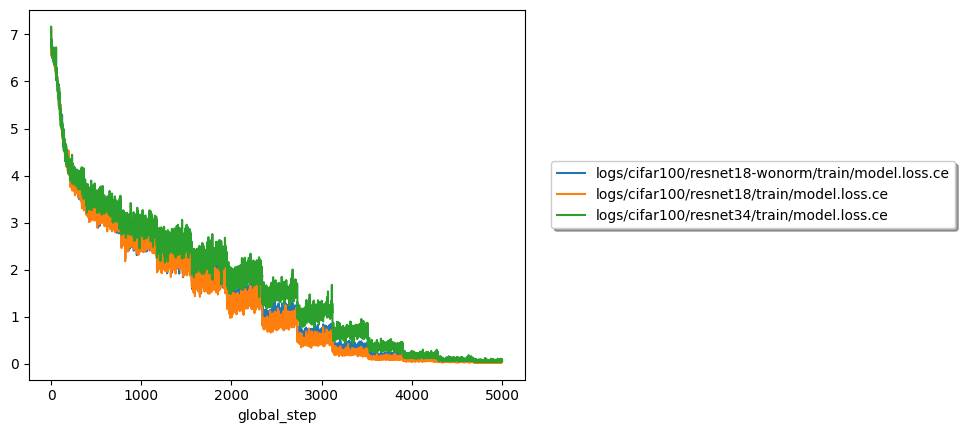
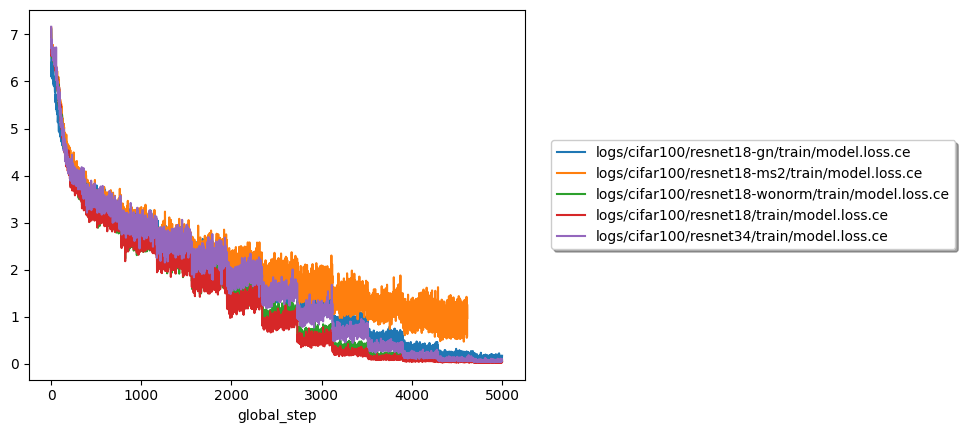
Add filter, update results

Changed region(s): [[0.0311, 0.0901, 0.5285, 0.8406], [0.5596, 0.3303, 0.9948, 0.6005]]

diff --git a/src/plot.py b/src/plot.py
@@ -75,10 +75,16 @@ def main():
     parser.add_argument("--filename", default="log.txt")
     parser.add_argument("--max-x", default=None)
     parser.add_argument("--group-level", default=1)
+    parser.add_argument("--filter", default=None)
     args = parser.parse_args()
 
     paths = args.log_dir.rglob(f"**/{args.filename}")
+
+    if args.filter:
+        paths = filter(lambda p: re.match(".*" + args.filter + ".*", str(p)), paths)
+
     plot(paths, args)
+
     plt.savefig(args.output, bbox_inches="tight")
 
 

diff --git a/README.md b/README.md
@@ -34,4 +34,4 @@ bash ./scripts/plot.sh
 
 ## Puzzles
 
-Why does the loss suddenly drop periodically (after each epoch)?
+- Why does the loss suddenly drop periodically (after each epoch)?
